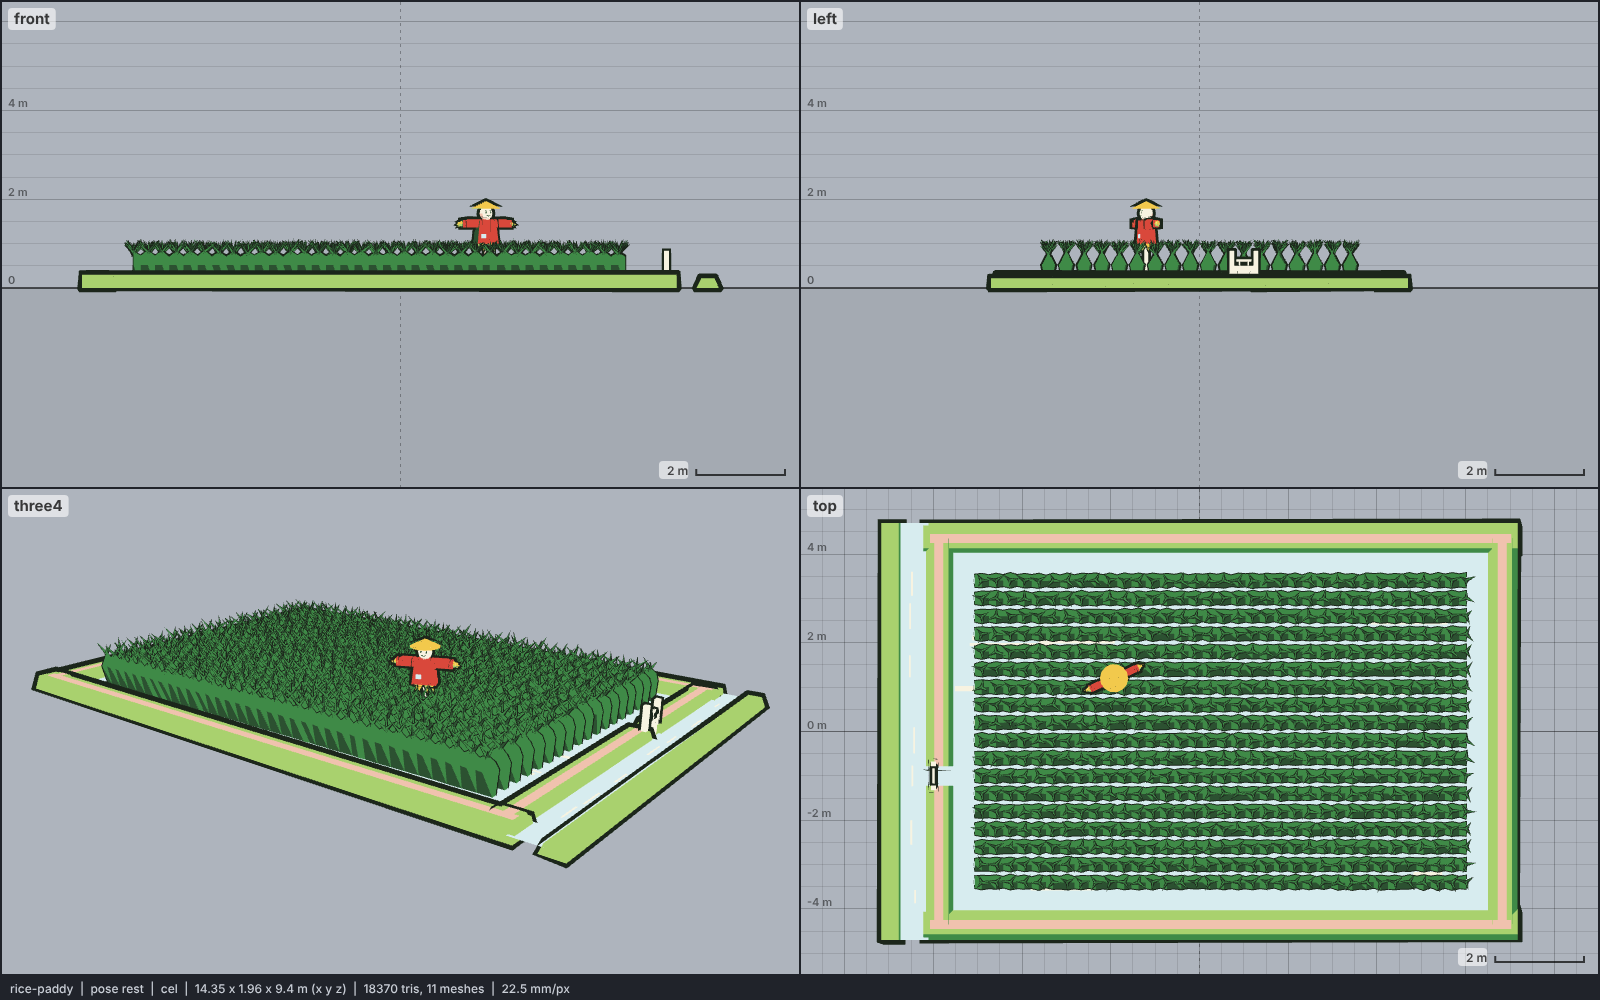
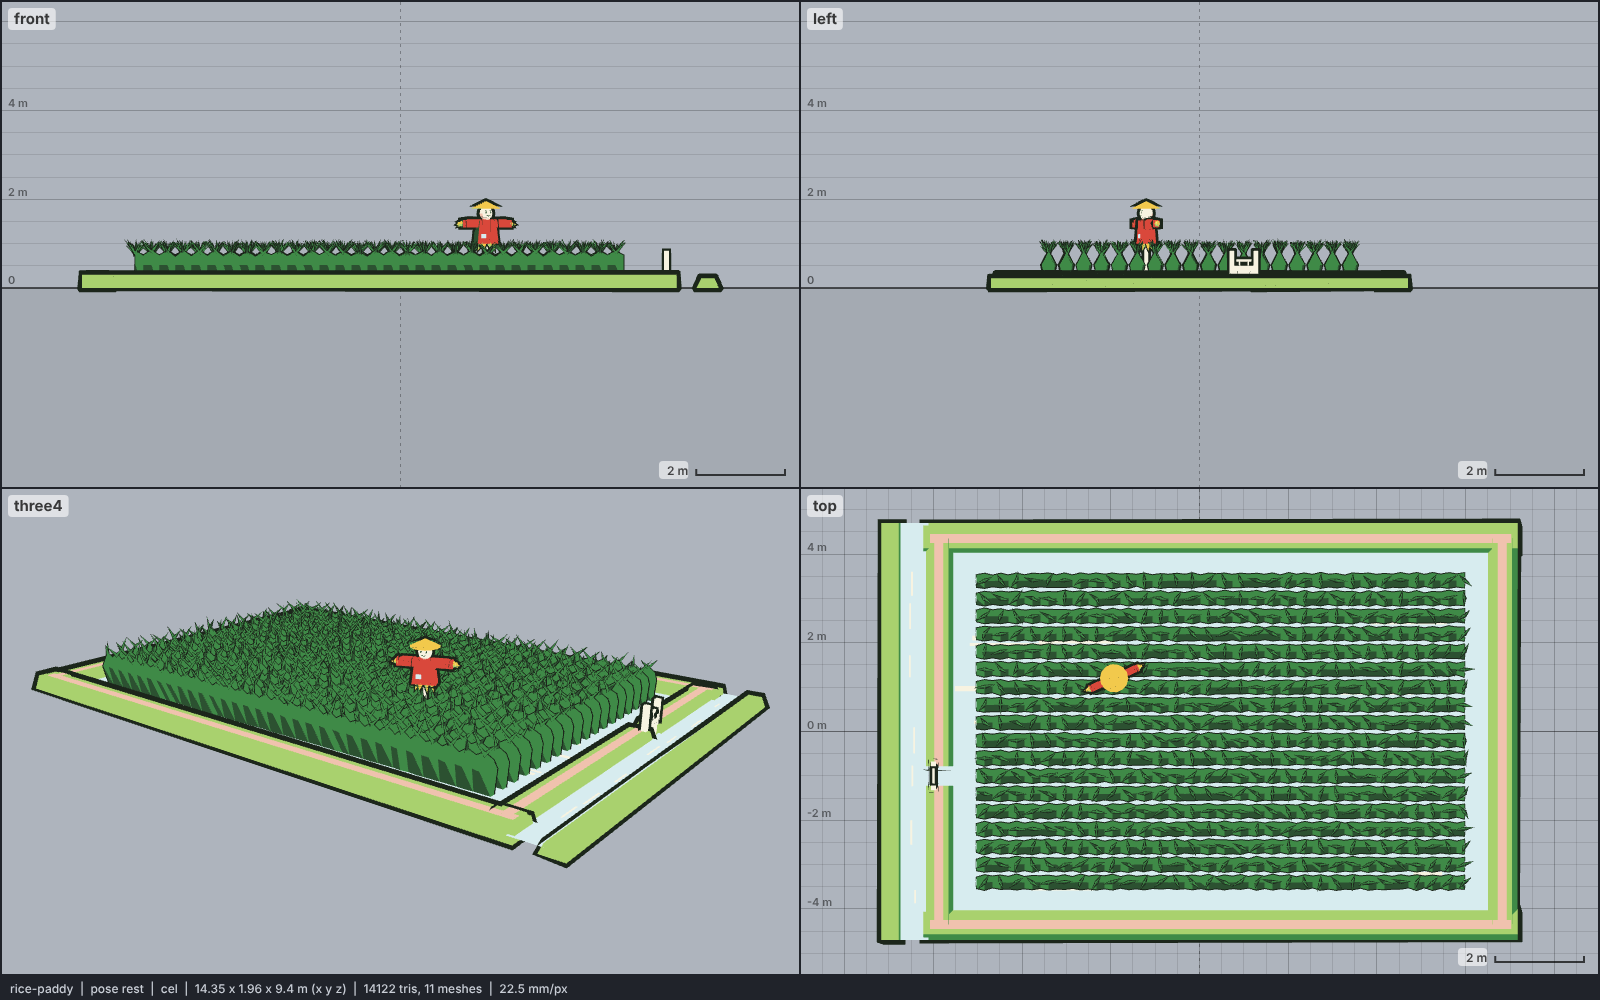
models: rice-paddy, trim rice to 14k triangles, re-render heroes
Hills 0.36 m apart, two leaf blades or nodding heads per hill; summer
and autumn 14.1k triangles, spring 9.7k. Renders redone on the
pipeline's raised hero view for flat sets.

Claude-Session: https://claude.ai/code/session_01RarBCdt4E1fNHHaUKaW5GL

diff --git a/models/rice-paddy.js b/models/rice-paddy.js
@@ -11,14 +11,14 @@
 //   CHANNEL  a narrow ditch (0.45 m of water at y = 0.14, higher than the field) between the +X levee and a lower outer
 //            bank, the full depth of the plot. The SLUICE stands in the levee gap: two square posts, a plank board with
 //            two cleats slotted between them holding the channel back, a lifting bar on studs; field water runs into it.
-//   RICE     ONE mesh, rows along X 0.40 m apart, hills 0.32 m apart, tiny deterministic jitter (a sine hash, no
+//   RICE     ONE mesh, rows along X 0.40 m apart, hills 0.36 m apart, tiny deterministic jitter (a sine hash, no
 //            Math.random), a 0.5 m ring of open water inside the levees. Blades are thin closed wedges (tetrahedra):
 //            a two-sided sheet z-fights with its own hull and goes black.
 //            spring: young 4-blade tufts 0.24-0.34 m tall standing in open water (their tips fringe above the levees
 //            in the low hero view). summer: each row one hedge solid, sampled every half hill (crowns and dips) with a
-//            peaked cross-section (stem base 0.10 m wide, 0.30 m at 0.52 m, crest 0.80-0.86 m), three leaf blades
+//            peaked cross-section (stem base 0.10 m wide, 0.30 m at 0.52 m, crest 0.80-0.86 m), two leaf blades
 //            fanning out of every crown to ~1.0 m: rows of dense green with dark furrows between. autumn: the hedge
-//            shorter, bulging out at 0.6 m, with four bent heads per crown (a wedge whose fourth corner is the knee)
+//            shorter, bulging out at 0.6 m, with two bent heads per crown (a wedge whose fourth corner is the knee)
 //            nodding out and down over the furrows: heavy-headed gold.
 //   SCARECROW kakashi: a post into the field and a crossbar (wood boxes), an old jacket (a flared box torso, box
 //            sleeves along the bar, a patch on the chest), straw tufts (cones) out of the cuffs and the hem, a cloth
@@ -34,7 +34,7 @@
 //              the sluice keep their places relative to the field.
 //   height     scales the whole plot uniformly so its top is `height` (default: the natural top, 1.96 m with the
 //              scarecrow, else the rice or the sluice posts).
-// Budget: summer 18.4k triangles, autumn 20.9k, spring 10.8k (rice is all but ~700 of them).
+// Budget: summer and autumn 14.1k triangles, spring 9.7k (rice is all but ~700 of them).
 // Colours (meadow: the only script with field greens and a pale sky for the water; autumn gold from its practical):
 //   water sky #d7ecef flat, glints moon #f7f3e1 flat (no ink: paint on the water);
 //   levee and bank grass line #a9d16e / iris #3f8a47; path skin #f0c2ae flat (meadow has no brown: the warm pale
@@ -179,7 +179,7 @@ export function build(THREE, kit, colors = meta.colors, opts = {}) {
 
   // ---------- rice: one mesh ----------
   const RK = "rice";
-  const dx = 0.32, dz = 0.4, RM = 0.5; // hill spacing along a row, row spacing, open water margin to the levee toe
+  const dx = 0.36, dz = 0.4, RM = 0.5; // hill spacing along a row, row spacing, open water margin to the levee toe
   const nx = Math.floor((W - 2 * RM) / dx), nz = Math.floor((D - 2 * RM) / dz);
   const autumn = season === "autumn";
   for (let j = 0; j <= nz; j++) {
@@ -209,15 +209,15 @@ export function build(THREE, kit, colors = meta.colors, opts = {}) {
       const cx = x0 + k * step;
       if (crown && !autumn) { // leaf blades fanning out of the crown: the rice silhouette above the hedge
         const a0 = hash(k, j, 9) * Math.PI;
-        for (let b = 0; b < 3; b++) {
-          const a = a0 + (b * Math.PI * 2) / 3, ca = Math.cos(a), sa = Math.sin(a);
+        for (let b = 0; b < 2; b++) {
+          const a = a0 + b * Math.PI + 0.6 * (hash(k, j, 11 + b) - 0.5), ca = Math.cos(a), sa = Math.sin(a);
           const L = 0.16 + 0.1 * hash(k, j, 20 + b), H = 0.14 + 0.1 * hash(k, j, 30 + b), w = 0.03, y0 = yt - 0.08;
           blade(RK, [cx - sa * w, y0, zc + ca * w], [cx + sa * w, y0, zc - ca * w], [cx - ca * 0.02, y0 + 0.06, zc - sa * 0.02], [cx + ca * L, yt + H, zc + sa * L * 0.8]);
         }
       }
       if (crown && autumn) { // heavy heads: each a blade bent at a knee, nodding out over the furrows
-        for (let b = 0; b < 4; b++) {
-          const side = b % 2 ? 1 : -1, along = (b < 2 ? -1 : 1) * (0.04 + 0.05 * hash(k, j, 20 + b));
+        for (let b = 0; b < 2; b++) {
+          const side = b % 2 ? 1 : -1, along = ((k / 2 + j) % 2 ? -1 : 1) * (b ? 1 : -1) * (0.04 + 0.05 * hash(k, j, 20 + b));
           const r = 0.2 + 0.06 * hash(k, j, 30 + b), w = 0.035, y0 = yt - 0.06;
           const base1 = [cx + along - w, y0, zc + side * 0.03], base2 = [cx + along + w, y0, zc + side * 0.03];
           const knee = [cx + along * 1.6, yt + 0.09, zc + side * 0.12];
